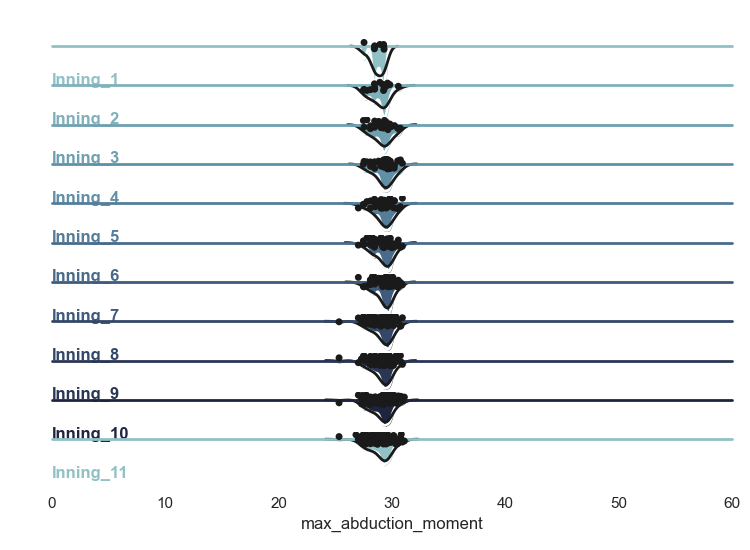
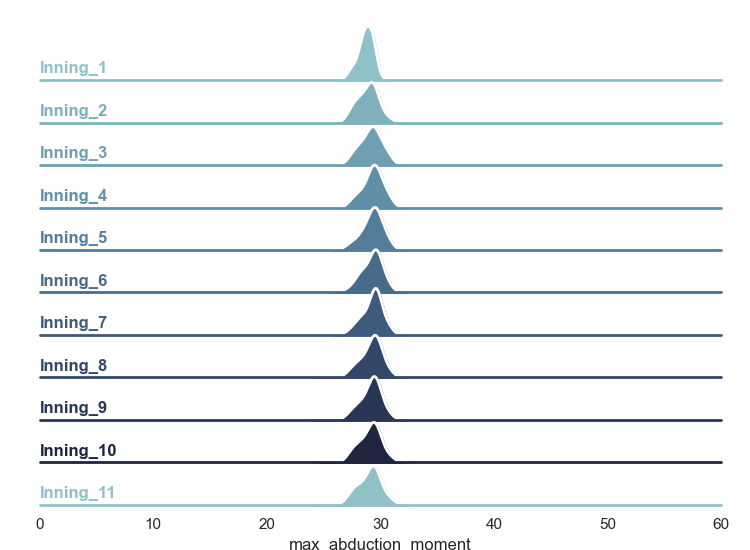
changing workstations

Changed region(s): [[0.0307, 0.0618, 1.0, 1.0]]

diff --git a/3D_inverse_dynamics/Python/ridgeline.py b/3D_inverse_dynamics/Python/ridgeline.py
@@ -37,10 +37,10 @@ for output in Outputs:
     g = sns.FacetGrid(df, row="Inning", hue="Inning", aspect=15, height=.5, palette=pal)
 
     # Draw the densities in a few steps
-    g.map(sns.stripplot, output, clip_on=False, color ="k", lw=2)
-    g.map(sns.kdeplot, output, bw_adjust=.5, clip_on=False, fill=True, alpha=1, linewidth=1.5)
-    g.map(sns.kdeplot, output, clip_on=False, color="w", lw=2, bw_adjust=.5)
-    g.map(sns.kdeplot, output, clip_on=False, color="k", lw=2, bw_adjust=1)
+    # g.map(sns.stripplot, output, clip_on=False, color ="k", lw=2)
+    g.map(sns.kdeplot, output, bw_adjust=1.059, clip_on=False, fill=True, alpha=1, linewidth=1.5)
+    g.map(sns.kdeplot, output, clip_on=False, color="w", lw=2, bw_adjust=1.059)
+    # g.map(sns.kdeplot, output, clip_on=False, color="k", lw=2, bw_adjust=1)
 
 
 

diff --git a/3D_inverse_dynamics/Python/Violinplot_groups.py b/3D_inverse_dynamics/Python/Violinplot_groups.py
@@ -50,6 +50,6 @@ for output in Outputs:
 
     ax = plt.figure()
 
-    plt.xlim(20,35)
-    ax = sns.violinplot(y="Group", x=output, data=df, inner='quartile', bw = 1)
-    ax = sns.swarmplot(y="Group", x=output, data=df, color=".3")
+    # plt.xlim(20,50)
+    ax = sns.violinplot(x="Group", y=output, data=df, inner='quartile', bw = 'scott') #bw = 1.059 for normal distribution
+    ax = sns.swarmplot(x="Group", y=output, data=df, color=".3")
